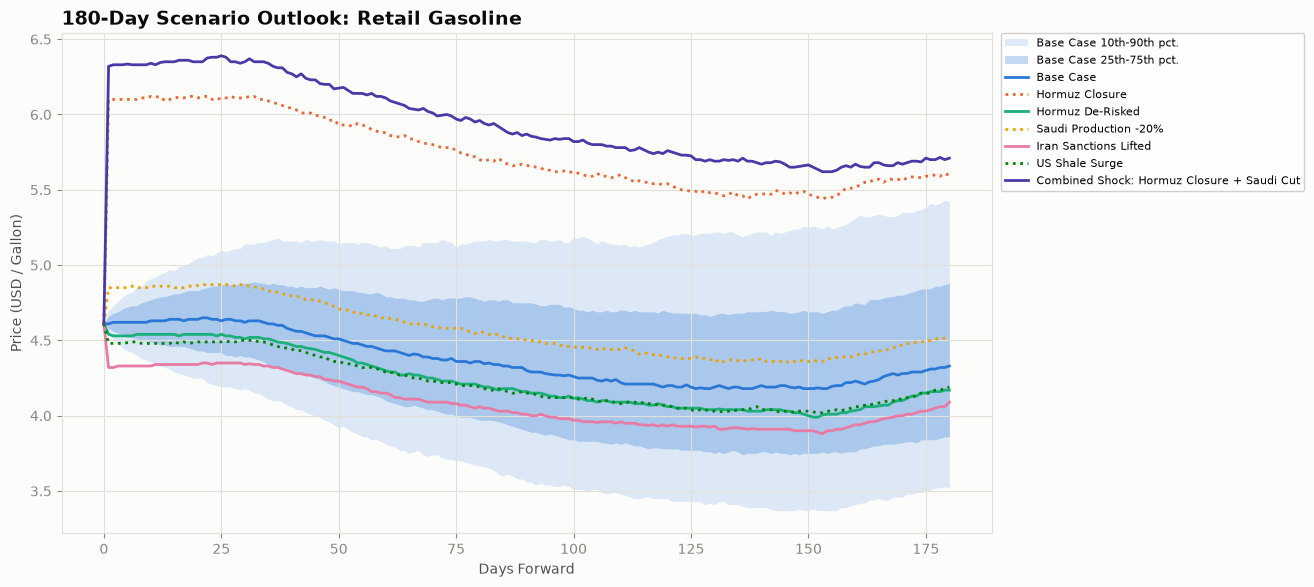
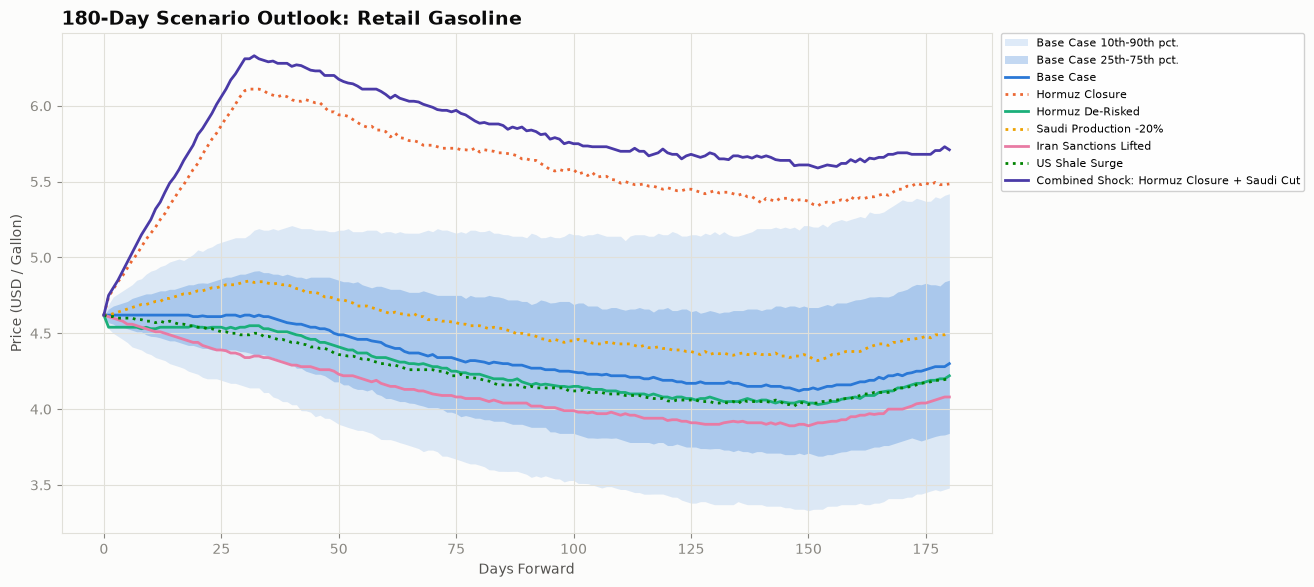
Regenerate charts/report with 30-day ramped scenario shocks

diff --git a/oil_market_outlook.md b/oil_market_outlook.md
@@ -5,31 +5,31 @@
 
 ## Executive Summary
 
-Under current calibrated conditions, the model's base-case median retail gasoline price reaches **$4.33/gal** 180 days out (10th-90th percentile range $3.52-$5.42). Across the six stress scenarios modeled below, the most bullish case is **Combined Shock: Hormuz Closure + Saudi Cut**, which pushes the day-180 median to $5.71/gal (+31.9% vs. base), while **Iran Sanctions Lifted** offers the most relief, at $4.09/gal (-5.5% vs. base).
+Under current calibrated conditions, the model's base-case median retail gasoline price reaches **$4.30/gal** 180 days out (10th-90th percentile range $3.48-$5.42). Across the six stress scenarios modeled below, the most bullish case is **Combined Shock: Hormuz Closure + Saudi Cut**, which pushes the day-180 median to $5.71/gal (+32.8% vs. base), while **Iran Sanctions Lifted** offers the most relief, at $4.08/gal (-5.1% vs. base).
 
 ## Scenario Summary Table (Gasoline)
 
 | Scenario | Day 30 | Day 90 | Day 180 | Day 180 10th-90th pct. | vs. Base |
 |---|---|---|---|---|---|
-| Base Case | $4.62 | $4.30 | $4.33 | $3.52-$5.42 | - |
-| Hormuz Closure | $6.11 | $5.66 | $5.59 | $4.24-$7.84 | +29.2% |
-| Hormuz De-Risked | $4.51 | $4.16 | $4.17 | $3.38-$5.22 | -3.7% |
-| Saudi Production -20% | $4.87 | $4.50 | $4.52 | $3.60-$5.77 | +4.4% |
-| Iran Sanctions Lifted | $4.34 | $4.01 | $4.09 | $3.29-$5.13 | -5.5% |
-| US Shale Surge | $4.50 | $4.15 | $4.19 | $3.42-$5.24 | -3.2% |
-| Combined Shock: Hormuz Closure + Saudi Cut | $6.35 | $5.87 | $5.71 | $4.18-$8.31 | +31.9% |
+| Base Case | $4.62 | $4.28 | $4.30 | $3.48-$5.42 | - |
+| Hormuz Closure | $6.10 | $5.65 | $5.49 | $4.17-$7.67 | +27.6% |
+| Hormuz De-Risked | $4.54 | $4.17 | $4.22 | $3.43-$5.29 | -1.9% |
+| Saudi Production -20% | $4.84 | $4.49 | $4.50 | $3.59-$5.78 | +4.7% |
+| Iran Sanctions Lifted | $4.34 | $4.04 | $4.08 | $3.34-$5.13 | -5.1% |
+| US Shale Surge | $4.49 | $4.14 | $4.20 | $3.40-$5.30 | -2.3% |
+| Combined Shock: Hormuz Closure + Saudi Cut | $6.31 | $5.83 | $5.71 | $4.28-$8.16 | +32.8% |
 
 ## Scenario Summary Table (Diesel)
 
 | Scenario | Day 30 | Day 60 | Day 90 | Day 180 |
 |---|---|---|---|---|
-| Base Case | $6.34 | $6.18 | $6.04 | $5.57 |
-| Hormuz Closure | $7.82 | $7.61 | $7.39 | $6.88 |
-| Hormuz De-Risked | $6.23 | $6.06 | $5.90 | $5.41 |
-| Saudi Production -20% | $6.58 | $6.41 | $6.27 | $5.78 |
-| Iran Sanctions Lifted | $6.06 | $5.88 | $5.77 | $5.35 |
-| US Shale Surge | $6.22 | $6.03 | $5.92 | $5.47 |
-| Combined Shock: Hormuz Closure + Saudi Cut | $8.04 | $7.87 | $7.65 | $7.01 |
+| Base Case | $6.35 | $6.17 | $6.03 | $5.58 |
+| Hormuz Closure | $7.80 | $7.54 | $7.36 | $6.75 |
+| Hormuz De-Risked | $6.25 | $6.06 | $5.93 | $5.46 |
+| Saudi Production -20% | $6.56 | $6.38 | $6.27 | $5.75 |
+| Iran Sanctions Lifted | $6.07 | $5.90 | $5.79 | $5.35 |
+| US Shale Surge | $6.21 | $6.04 | $5.91 | $5.45 |
+| Combined Shock: Hormuz Closure + Saudi Cut | $8.04 | $7.83 | $7.61 | $7.04 |
 
 ## Scenario Detail
 
@@ -37,43 +37,43 @@ Under current calibrated conditions, the model's base-case median retail gasolin
 
 Current calibrated market conditions, including the manually-reviewed disruption_severity.json blend toward current chokepoint/freight conditions (see Methodology); no additional policy or geopolitical shock applied on top.
 
-Day-180 median: **$4.33/gal** gasoline (base case), $5.57/gal diesel.
+Day-180 median: **$4.30/gal** gasoline (base case), $5.58/gal diesel.
 
 ### Hormuz Closure
 
 Strait of Hormuz effectively shut: roughly 55% of its normal throughput is assumed offline, chokepoint disruption frequency quadruples, and the war-risk shipping premium triples.
 
-Day-180 median: **$5.59/gal** gasoline (+29.2% vs. base), $6.88/gal diesel.
+Day-180 median: **$5.49/gal** gasoline (+27.6% vs. base), $6.75/gal diesel.
 
 ### Hormuz De-Risked
 
 Geopolitical tension around the strait fully unwinds: disruption frequency falls to a fifth of baseline and the war-risk premium halves, with no direct change to physical supply.
 
-Day-180 median: **$4.17/gal** gasoline (-3.7% vs. base), $5.41/gal diesel.
+Day-180 median: **$4.22/gal** gasoline (-1.9% vs. base), $5.46/gal diesel.
 
 ### Saudi Production -20%
 
 Saudi Arabia cuts output and spare capacity by 20%, e.g. an OPEC+ supply-discipline shock.
 
-Day-180 median: **$4.52/gal** gasoline (+4.4% vs. base), $5.78/gal diesel.
+Day-180 median: **$4.50/gal** gasoline (+4.7% vs. base), $5.75/gal diesel.
 
 ### Iran Sanctions Lifted
 
 Sanctions are lifted, letting Iranian output ramp toward a materially higher production ceiling.
 
-Day-180 median: **$4.09/gal** gasoline (-5.5% vs. base), $5.35/gal diesel.
+Day-180 median: **$4.08/gal** gasoline (-5.1% vs. base), $5.35/gal diesel.
 
 ### US Shale Surge
 
 US shale operators ramp drilling activity, lifting both current output and spare capacity.
 
-Day-180 median: **$4.19/gal** gasoline (-3.2% vs. base), $5.47/gal diesel.
+Day-180 median: **$4.20/gal** gasoline (-2.3% vs. base), $5.45/gal diesel.
 
 ### Combined Shock: Hormuz Closure + Saudi Cut
 
 A simultaneous Hormuz closure and 20% Saudi production cut - a tail-risk stack of the two largest supply-side scenarios.
 
-Day-180 median: **$5.71/gal** gasoline (+31.9% vs. base), $7.01/gal diesel.
+Day-180 median: **$5.71/gal** gasoline (+32.8% vs. base), $7.04/gal diesel.
 
 ## Charts
 
@@ -85,7 +85,7 @@ Day-180 median: **$5.71/gal** gasoline (+31.9% vs. base), $7.01/gal diesel.
 
 ## Methodology
 
-Each scenario re-runs the full 2,000-path stochastic simulation (`simulate.go`) with a modified set of inputs. Chokepoint scenarios (Hormuz closure/de-risking) adjust the model's existing disruption frequency and shipping-risk mechanics directly. Production scenarios additionally apply a first-order crude price shock: each 1% of global supply added or removed is assumed to move crude price 6% in the opposite direction (a simplifying short-run elasticity assumption, not a fitted econometric estimate), with volatility scaled up in proportion to shock size so tail scenarios carry wider, not just higher or lower, confidence bands. This is a model output for illustrative what-if analysis, not investment advice.
+Each scenario re-runs the full 2,000-path stochastic simulation (`simulate.go`) with a modified set of inputs. Chokepoint scenarios (Hormuz closure/de-risking) adjust the model's existing disruption frequency and shipping-risk mechanics directly. Production scenarios additionally apply a first-order crude price shock: each 1% of global supply added or removed is assumed to move crude price 6% in the opposite direction (a simplifying short-run elasticity assumption, not a fitted econometric estimate), phased in linearly over the first 30 days rather than overnight - so every scenario starts at today's observed price and the day-30 figures reflect the full shock - with volatility scaled up in proportion to shock size so tail scenarios carry wider, not just higher or lower, confidence bands. This is a model output for illustrative what-if analysis, not investment advice.
 
 **Drift anchor:** the base case has no independent view on direction. Crude and both crack spreads are anchored to the CL/HO/RB forward curves, so the expected path is the market's own, and the simulation supplies the distribution around it. Scenario shocks shift that whole anchor path rather than replacing it. Futures are a risk-neutral expectation and not a forecast - in backwardation they will tend to read lower than a realized spot path - so treat the level as market-implied rather than predicted. Note also that the **median** sits below the **mean** at longer horizons because crude is lognormal: that gap is a property of the distribution, not a bearish view.
 
